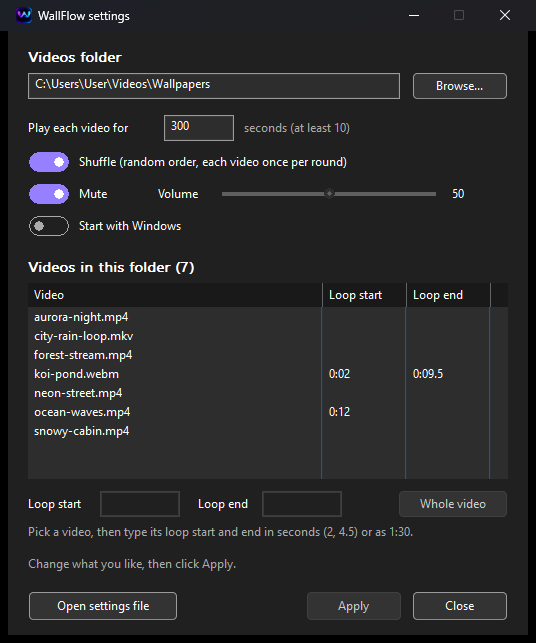
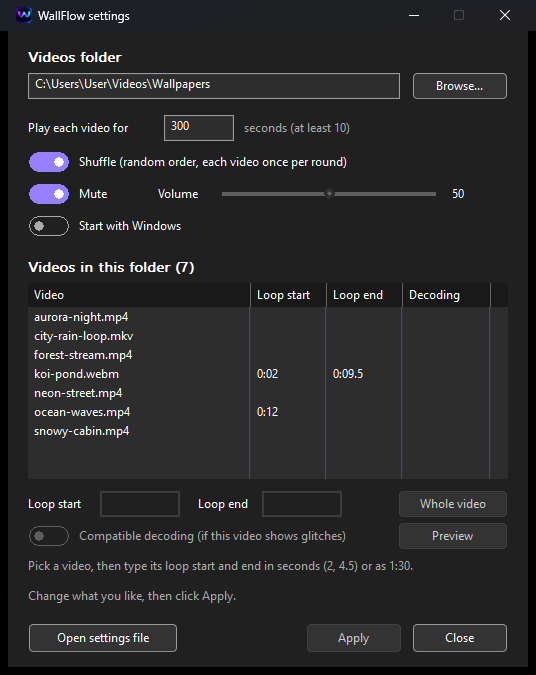
README: driver decode bug, compatible decoding, Preview; version 0.3.0

diff --git a/README.md b/README.md
@@ -26,6 +26,10 @@ Get the zip from the [latest release](https://github.com/Niranjen99/WallFlow/rel
 
 Pick a folder, set how many seconds each video plays, shuffle, mute or volume, and start with Windows. Pick a video in the list to give it its own loop: type its start and end in seconds (`2`, `4.5`) or as `1:30`. Nothing changes until you click **Apply** (or press Enter); a typo is shown in red and nothing is applied. Closing with changes not applied asks whether to apply them. Hover over the loop fields for a note on memory: a loop of 4 seconds or less keeps a second video player loaded all the time.
 
+**Preview** shows the selected video on the desktop right away, with the loop and decoding you set but have not applied yet. The folder rotation stops while you look; **Apply** or closing the window brings it back.
+
+**Compatible decoding** (per video): turn it on for a video that shows blocks of wrong colours. See [A driver bug: corrupted blocks at the bottom](#a-driver-bug-corrupted-blocks-at-the-bottom).
+
 The window writes `%APPDATA%\WallFlow\settings.json`, which you can also edit by hand (the open window follows). Saving from the window rewrites the file, so `//` comments in it are lost.
 
 The first start creates `%APPDATA%\WallFlow\settings.json`. Save it and WallFlow applies the change at once: another folder or a new loop range switches over seamlessly, a typo is reported in the log and ignored, and a half-saved file is ignored until it is valid again.
@@ -40,7 +44,8 @@ The first start creates `%APPDATA%\WallFlow\settings.json`. Save it and WallFlow
   "lock_screen_picture": false,
   "start_with_windows": true,
   "videos": {
-    "goku-hero.mp4": { "start": "0:02", "end": "0:05" }
+    "goku-hero.mp4": { "start": "0:02", "end": "0:05" },
+    "glitchy.mp4": { "compatible_decoding": true }
   }
 }
 ```
@@ -52,7 +57,7 @@ The first start creates `%APPDATA%\WallFlow\settings.json`. Save it and WallFlow
 | `shuffle` | Random order, each video once per round, never the same one twice in a row. | `false` |
 | `mute`, `volume` | Muted means the audio is not even decoded. Volume 0 to 100. | `true`, `50` |
 | `start_with_windows` | Start when you log in (current user only, no admin rights). | `false` |
-| `videos` | Per-video loop range by file name: `start`, `end` or both, as seconds (`90`) or text (`"1:30"`). | whole video |
+| `videos` | Per-video settings by file name: loop `start`, `end` or both, as seconds (`90`) or text (`"1:30"`); `compatible_decoding` decodes the video with Vulkan instead of DirectX. | whole video, DirectX |
 | `lock_screen_picture` | Reserved for the lock screen feature (not active yet). | `false` |
 
 Times can be `90`, `"1:30"` or `"1:02:03.5"`. `//` comments are allowed.
@@ -156,6 +161,26 @@ Folder rotation uses the same swap, with the next video in the waiting player.
 
 The first release paused forever on a PC with the NVIDIA app installed. Its GeForce Overlay keeps a screen-sized window open even while the overlay is closed: layered, at opacity 0, and not click-through. The pause rule saw "a window as big as the monitor" and paused. Now a layered window whose opacity (`GetLayeredWindowAttributes`, `LWA_ALPHA`) is 0 never counts as covering the screen. When the overlay is opened with Alt+Z its opacity rises and the wallpaper pauses as it should. A unit test covers both cases.
 
+## A driver bug: corrupted blocks at the bottom
+
+A user's 4K H.264 video showed a band of orange and purple blocks along the bottom of the screen. To find out whether the file or the decoder was at fault, a small libmpv script saved the same frame with each decoder and compared the pictures, pixel by pixel, with software (CPU) decoding:
+
+| Decoder (RTX 3070) | Mean difference, bottom 10% of the frame |
+|---|---|
+| `d3d11va`, `dxva2` (DirectX video) | 17.5 |
+| `nvdec` (NVIDIA CUDA), `vulkan` | 0.0 (identical to software) |
+
+The top 90% was identical for every decoder, so the file is fine: the GPU driver's DirectX decode path gets this stream wrong. Then the real cost of each fix, measured in WallFlow on that video (20 s average):
+
+| Setup | CPU (12 cores) | Private memory | Picture |
+|---|---|---|---|
+| DirectX `d3d11va`, zero copy (default) | 1.2% | 698 MB | corrupted |
+| `vulkan-copy` | 2.7% | 951 MB | correct |
+| `nvdec-copy` | 2.4% | 1494 MB | correct |
+| Vulkan renderer + Vulkan decoding | 2.1% | 1298 MB | correct |
+
+DirectX stays the default because it is the cheapest and correct for almost every video. A video that shows the bug gets **Compatible decoding**: mpv's `hwdec=vulkan-copy`, passed as a per-file option with `loadfile`, so it applies to that video only and the next one is back on DirectX. Vulkan works on NVIDIA, AMD and Intel (not only NVIDIA like `nvdec`) and needs no change to the renderer. Without Vulkan video support mpv falls back to software decoding, which is slower but also correct.
+
 ## How it watches the folder
 
 A background thread waits on `ReadDirectoryChangesW` (overlapped, together with a stop event, so quitting cancels it cleanly). It does not parse what changed: any change posts one message to the UI thread, which rescans the folder 1 second after the last change (copying a file sends many events). New videos join the shuffle round at random places; deleted ones never play again; in order, playback continues after the last video played even if that one was deleted. A video that fails to load is skipped. The first read is issued in the constructor, before the thread starts, because Windows only records changes from the first call on: a unit test caught a file added right after start being missed.
@@ -210,6 +235,7 @@ Set `WALLFLOW_LOG` to a file path before starting WallFlow and it logs what it d
 - [x] Rotate through a folder of videos with seamless switches, watch the folder for changes
 - [x] Settings file applied live, audio settings, start with Windows, app icon, release zip
 - [x] Settings window (follows the Windows light/dark theme live)
+- [x] Preview a video before applying; per-video compatible decoding for GPU driver bugs
 - [ ] Lock screen picture that matches the wallpaper
 - [ ] Measured results: memory, CPU and GPU use, switch gap
 
